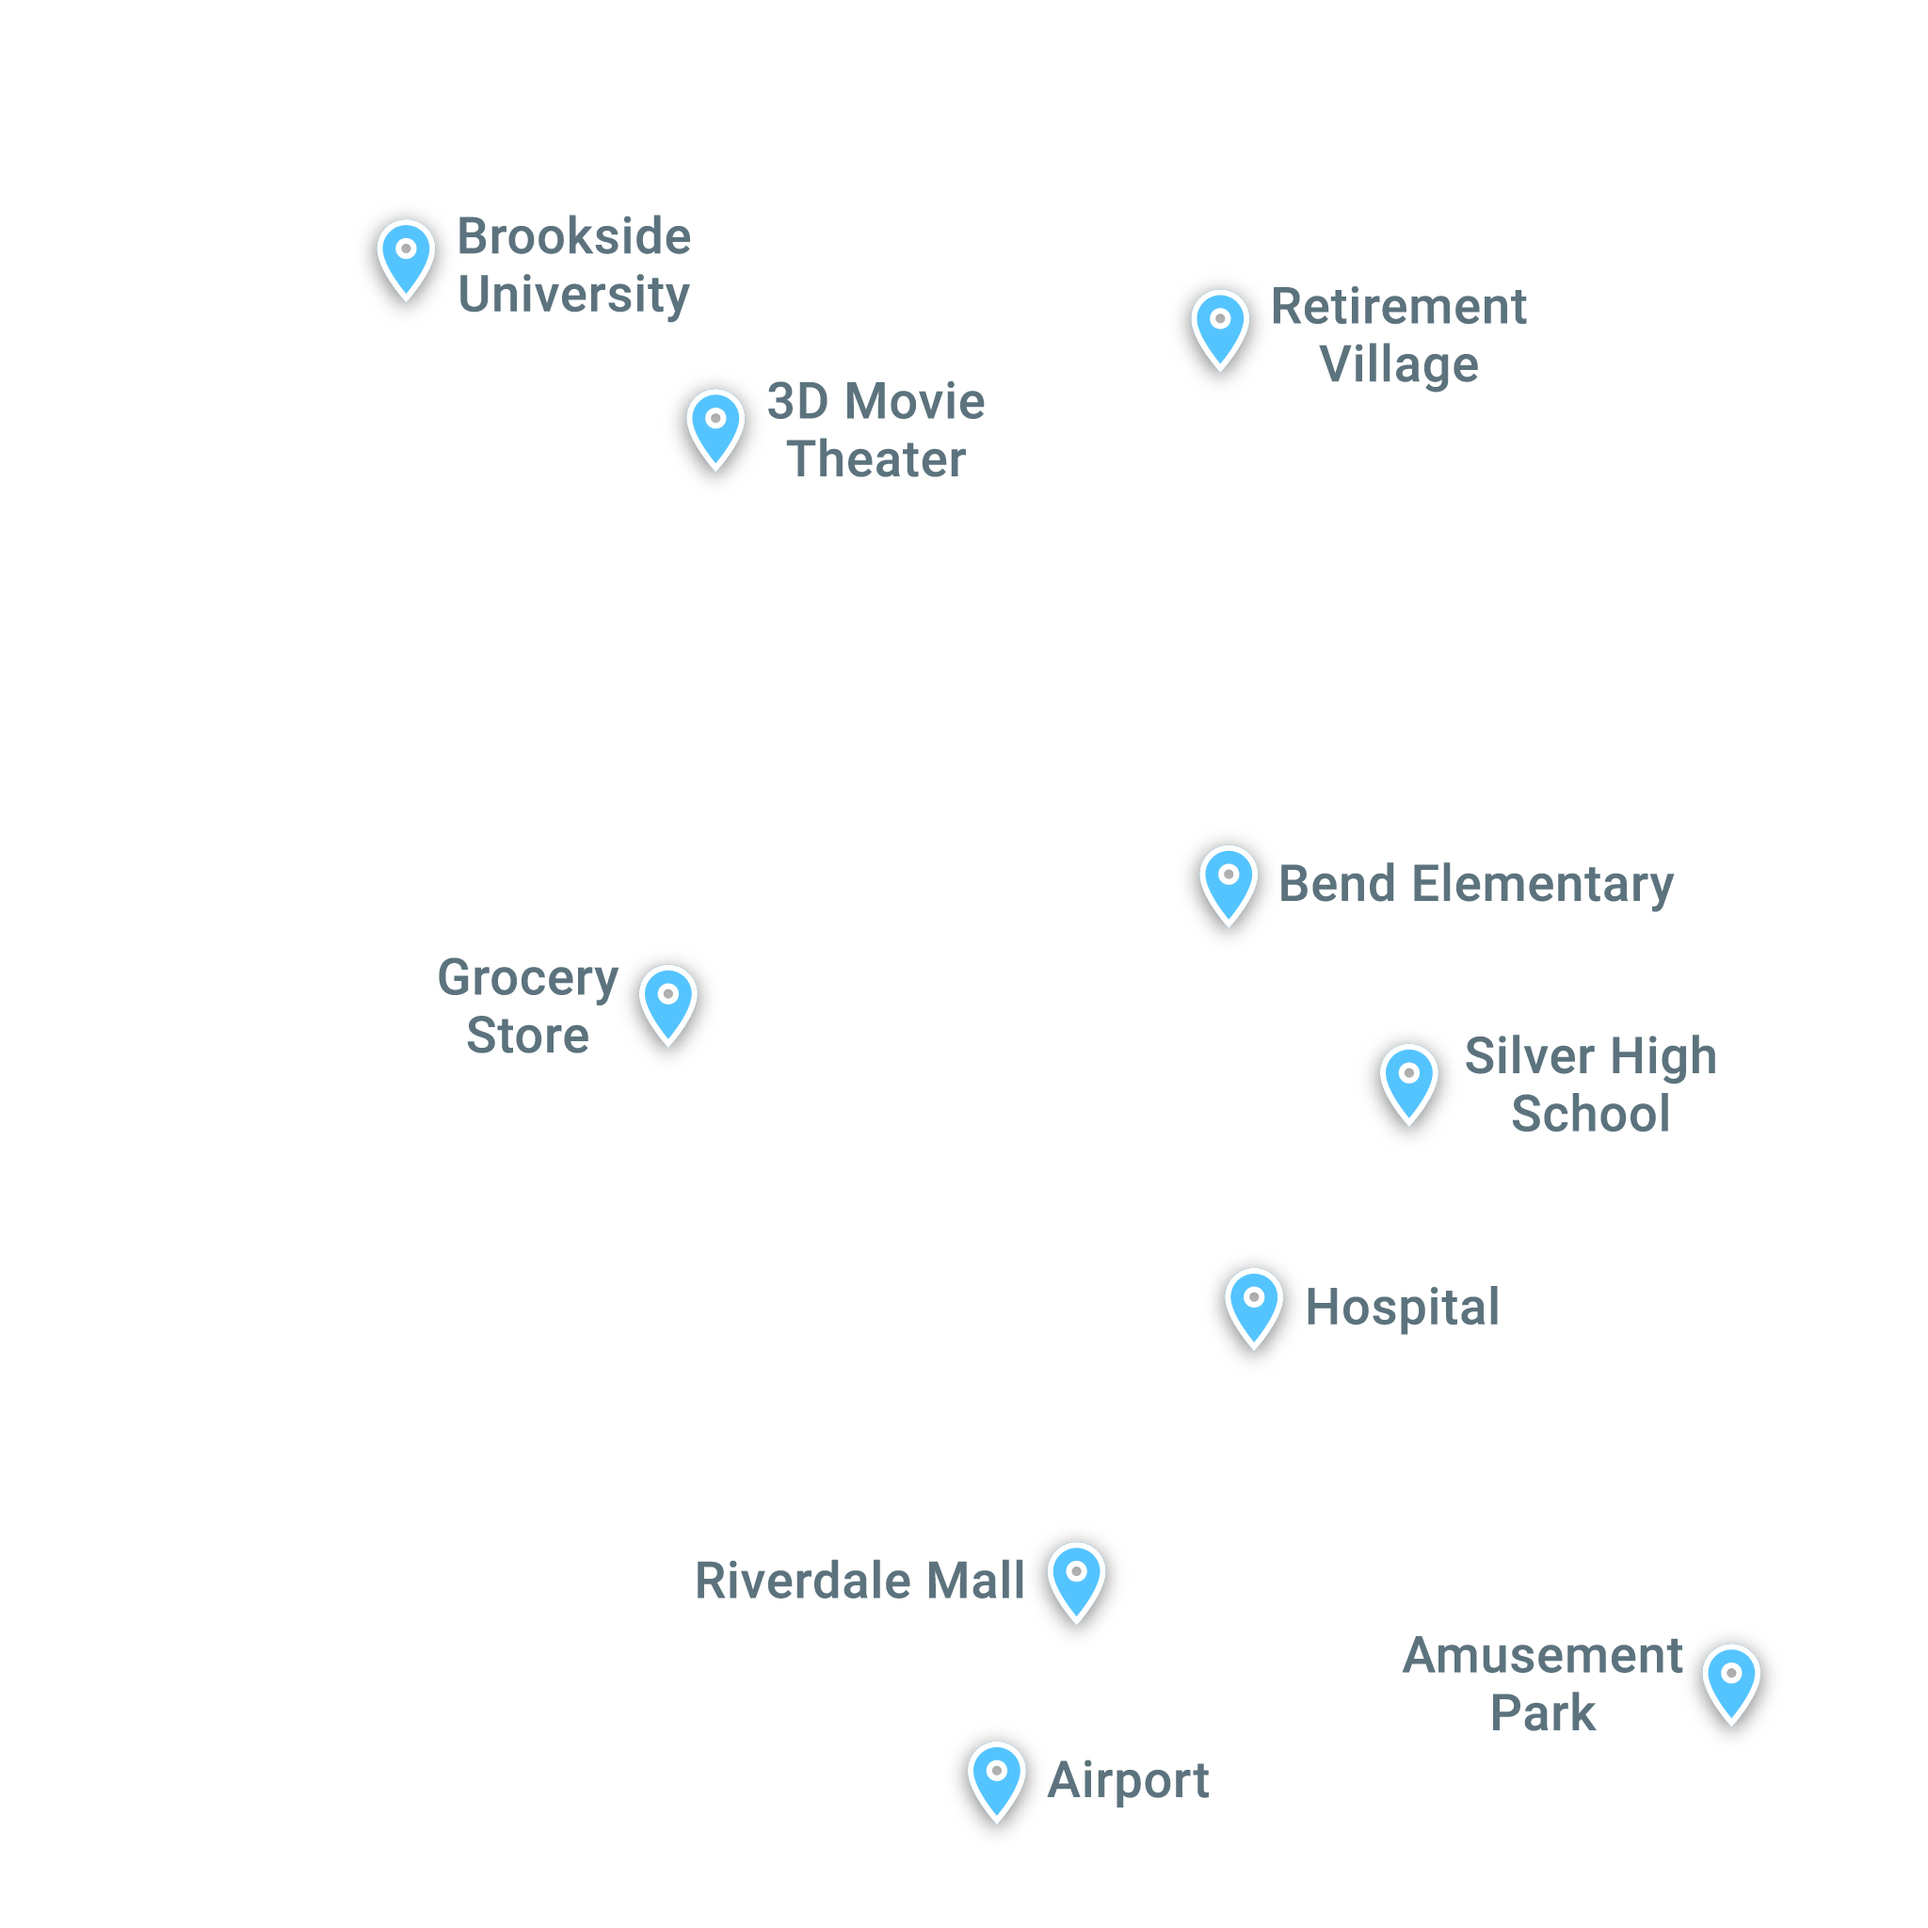
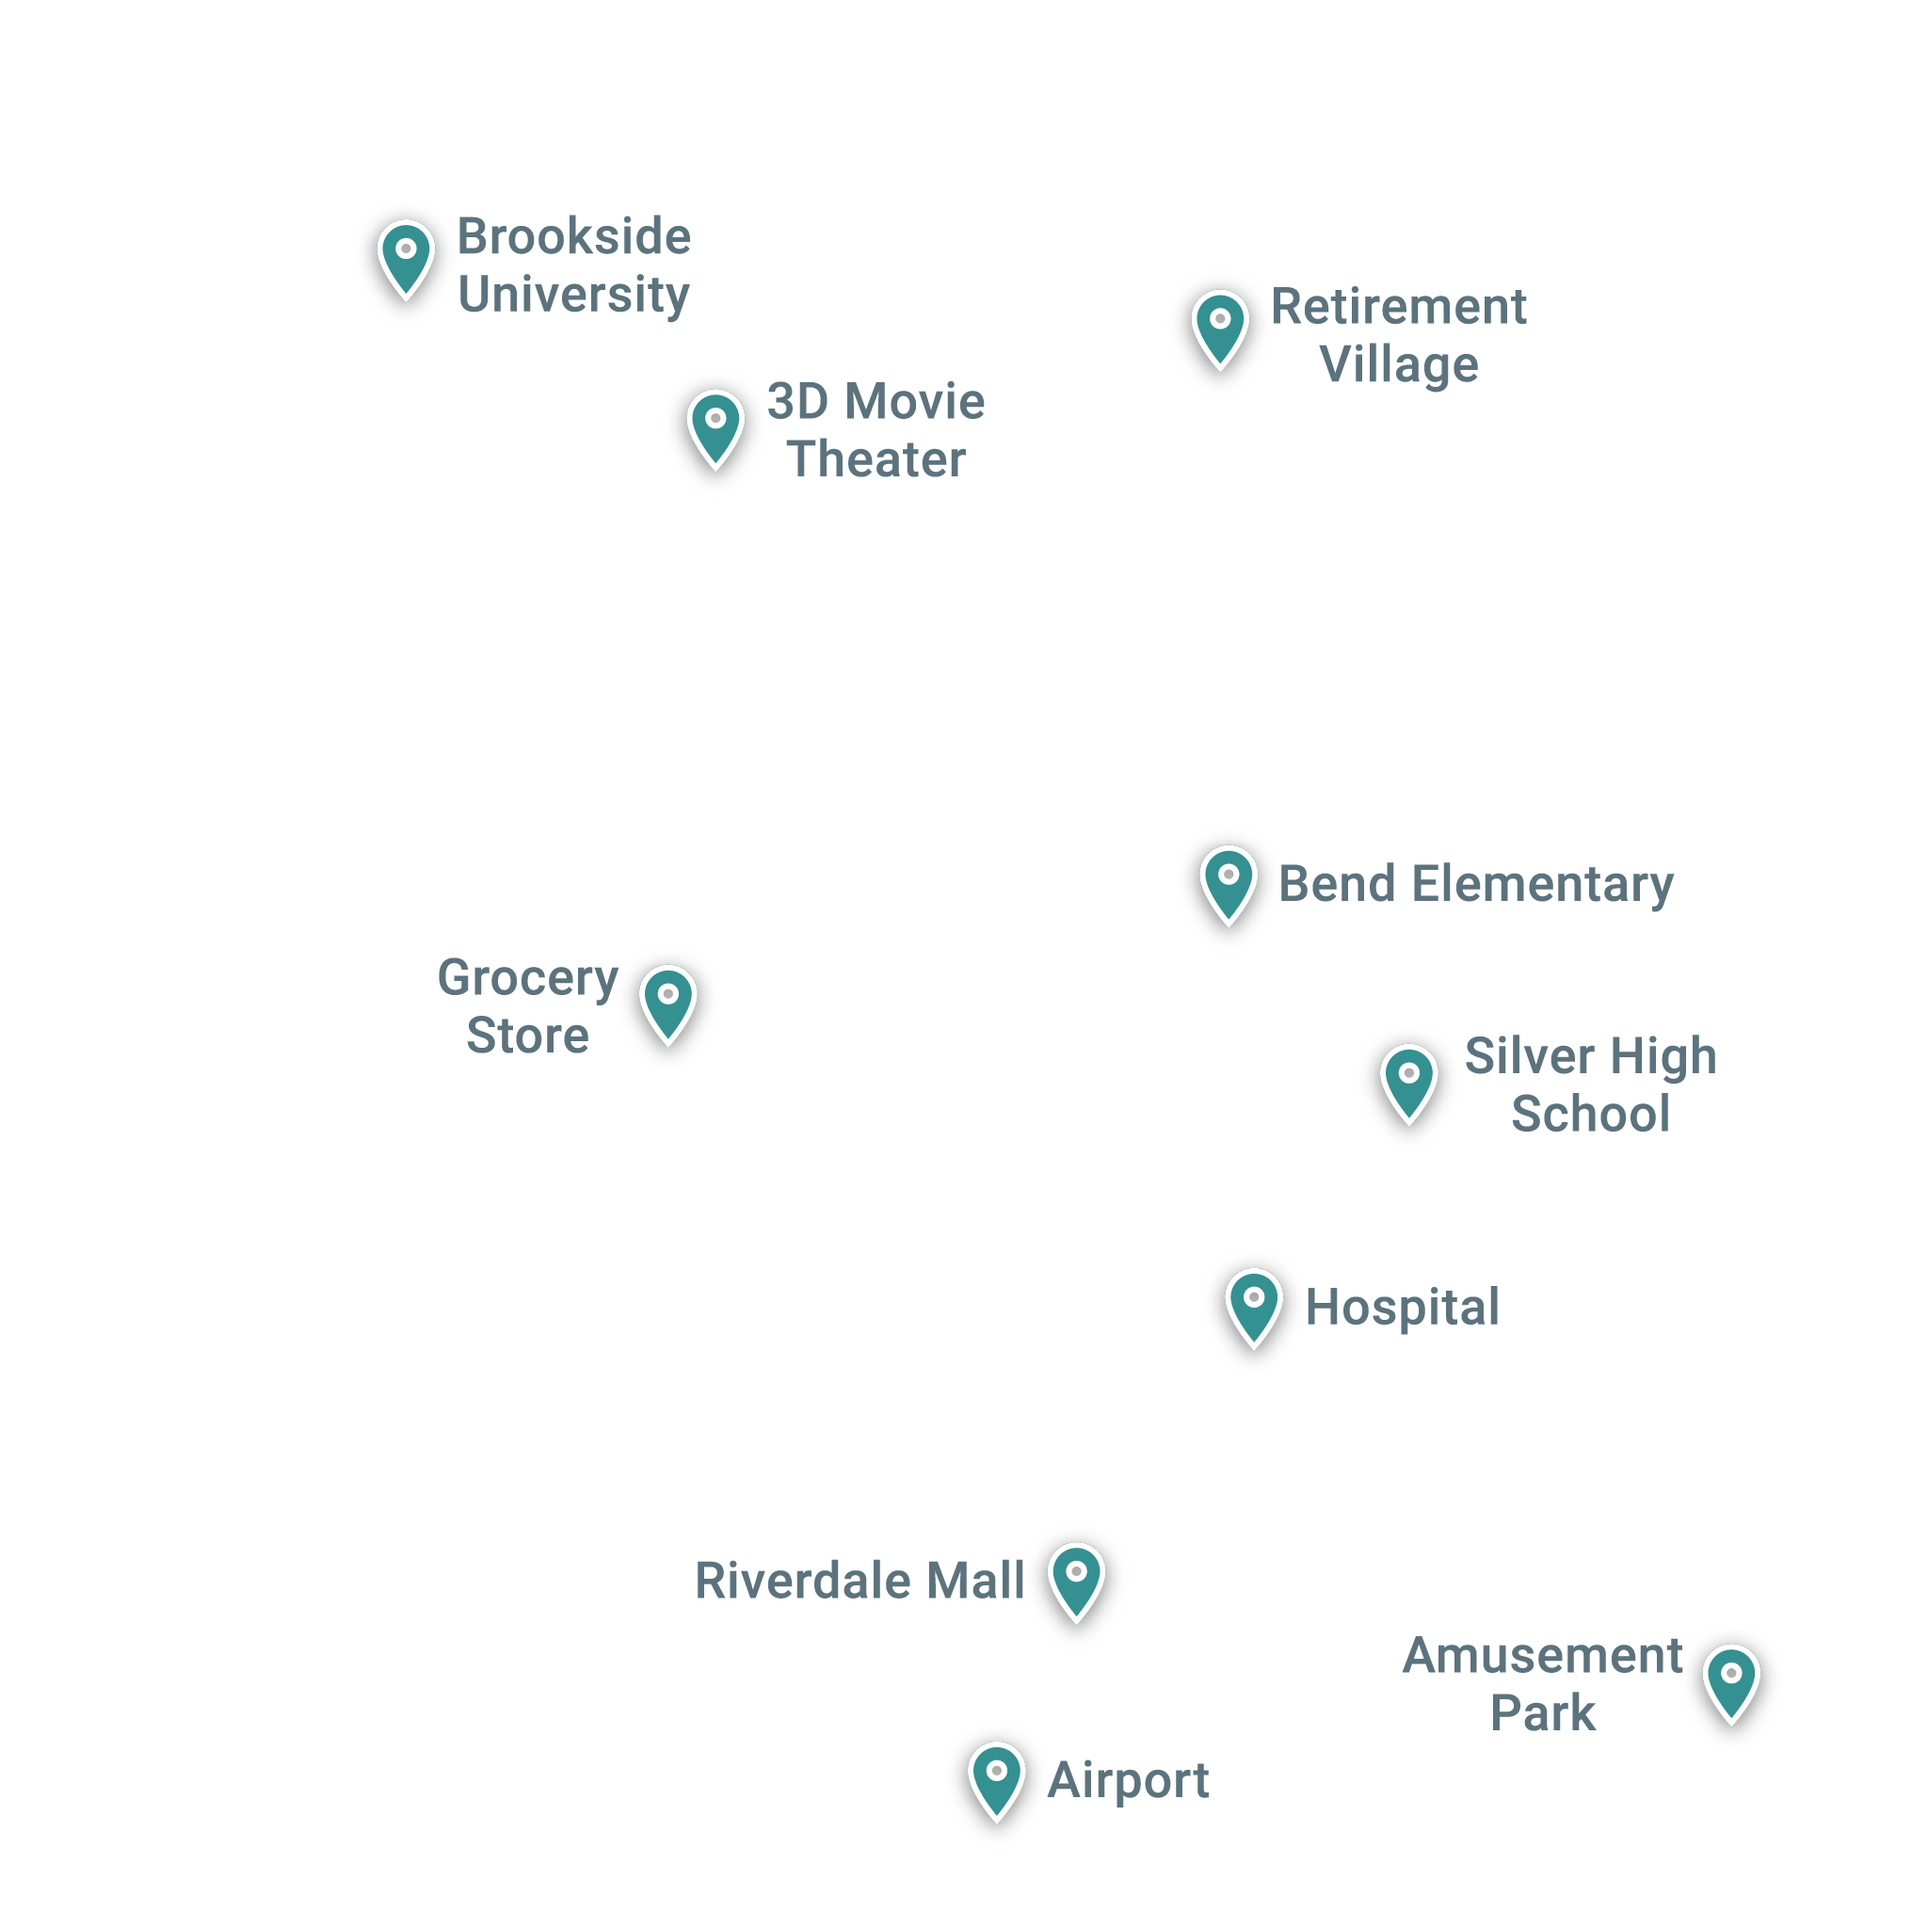
[#182762718]
Added new points of interest assets with different label color.

Place labels and points of interest labels are not covered by flooding water.

diff --git a/src/components/view-3d/terrain.tsx b/src/components/view-3d/terrain.tsx
@@ -11,6 +11,7 @@ interface IProps {
 }
 export const Terrain: React.FC<IProps> = observer(function WrappedComponent({ textureImg, interactions }) {
   const { simulation } = useStores();
+  const config = simulation.config;
   const height = planeHeight(simulation);
   // This hook will setup terrain elevation WITHOUT water depth. Note that in 2D view it won't do anything.
   const geometryRef = useElevation({ includeWaterDepth: false });
@@ -31,9 +32,10 @@ export const Terrain: React.FC<IProps> = observer(function WrappedComponent({ te
   }
 
   const materialProps = { attach: "material", map: texture || null, transparent: true };
+  const textureImgIsLabels = textureImg === config.placeLabelsImg || textureImg === config.pointsOfInterestImg;
 
   return (
-    <mesh position={[PLANE_WIDTH * 0.5, height * 0.5, 0]} {...eventHandlers}>
+    <mesh position={[PLANE_WIDTH * 0.5, height * 0.5, textureImgIsLabels ? .002 : 0]} {...eventHandlers}>
       <planeBufferGeometry
         attach="geometry"
         ref={geometryRef}
